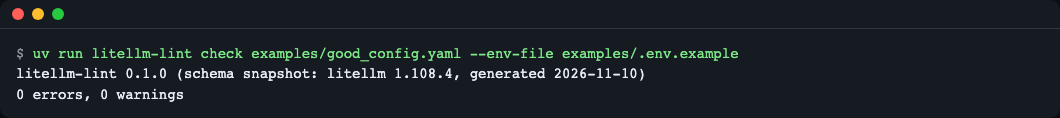
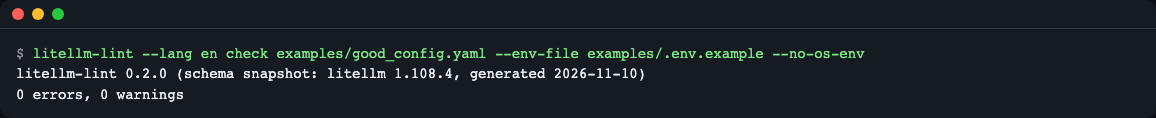
docs(readme): document output language and add Korean screenshots
Describe --lang precedence and add per-language screenshots plus the
0.2.0 changelog entry.

diff --git a/README.md b/README.md
@@ -22,7 +22,7 @@ uv tool install git+https://github.com/LeeGyeongPil/litellm-lint
 litellm-lint --version
 ```
 ```
-litellm-lint 0.1.2 (schema snapshot: litellm 1.108.4)
+litellm-lint 0.2.0 (schema snapshot: litellm 1.108.4)
 ```
 To try it once without installing: `uvx --from git+https://github.com/LeeGyeongPil/litellm-lint litellm-lint check config.yaml`. To use it from a downloaded repo, `git clone` and then `uv run litellm-lint ...`. A minimal Linux image needs `git` and `curl`.
 
@@ -33,7 +33,7 @@ git clone https://github.com/LeeGyeongPil/litellm-lint && cd litellm-lint
 uv run litellm-lint check examples/bad_config.yaml --env-file examples/.env.example
 ```
 ```
-litellm-lint 0.1.2 (schema snapshot: litellm 1.108.4, generated 2026-11-10)
+litellm-lint 0.2.0 (schema snapshot: litellm 1.108.4, generated 2026-11-10)
 examples/bad_config.yaml:7:16: error LL201 environment variable 'OPENAI_API_KEYY' not found in: examples/.env.example, process environment (did you mean 'OPENAI_API_KEY'?)
 examples/bad_config.yaml:17:7: warning LL001 unknown key 'api_bse' in litellm_params (did you mean 'api_base'?)
 examples/bad_config.yaml:20:3: error LL001 unknown key 'num_retires' in router_settings (did you mean 'num_retries'?)
@@ -48,7 +48,7 @@ Each line is `file:line:column: severity rule-code message`. The exit code is 1 
 uv run litellm-lint check examples/good_config.yaml --env-file examples/.env.example
 ```
 ```
-litellm-lint 0.1.2 (schema snapshot: litellm 1.108.4, generated 2026-11-10)
+litellm-lint 0.2.0 (schema snapshot: litellm 1.108.4, generated 2026-11-10)
 0 errors, 0 warnings
 ```
 ![Check result of a problem-free configuration](docs/images/02-good.png)
@@ -56,10 +56,27 @@ litellm-lint 0.1.2 (schema snapshot: litellm 1.108.4, generated 2026-11-10)
 
 ## Usage
 ```
-litellm-lint check [--env-file PATH] [--no-os-env] [--strict] [--ignore CODES] [--format {text,json}] config [config ...]
-litellm-lint schema [-o PATH]
+litellm-lint check [--env-file PATH] [--no-os-env] [--strict] [--ignore CODES] [--format {text,json}] [--lang {en,ko}] config [config ...]
+litellm-lint schema [-o PATH] [--lang {en,ko}]
 litellm-lint --version
 ```
+
+**Choosing the output language.** `--help`, error messages, findings and summary lines are shown in English or Korean. The first one that applies wins:
+
+1. `--lang en|ko` (accepted before or after the subcommand: `litellm-lint --lang ko check ...` or `litellm-lint check --lang ko ...`)
+2. the `LITELLM_LINT_LANG` environment variable (`en` or `ko`)
+3. the locale: `LC_ALL`, `LC_MESSAGES`, then `LANG`; a value starting with `ko` (for example `ko_KR.UTF-8`) means Korean
+4. otherwise English. An invalid `--lang` value stops the run with exit code 2; an invalid value in `LITELLM_LINT_LANG` is ignored and the next step is used.
+
+```bash
+uv run litellm-lint --lang ko check examples/good_config.yaml --env-file examples/.env.example
+LITELLM_LINT_LANG=ko uv run litellm-lint check examples/good_config.yaml --env-file examples/.env.example
+```
+```
+litellm-lint 0.2.0 (스키마 스냅숏: litellm 1.108.4, 생성일 2026-11-10)
+오류 0건, 경고 0건
+```
+Only the text output is translated. `--format json`, the `schema` export, rule codes and exit codes are identical in both languages, so scripts that read the output should use `--format json` or pass `--lang en`. The Python API (`Diagnostic.message`) stays English.
 
 | Command / option | What it does | Example |
 |---|---|---|
@@ -78,7 +95,7 @@ When you give several files, the header appears once, each file gets its finding
 uv run litellm-lint check examples/good_config.yaml examples/bad_config.yaml --env-file examples/.env.example
 ```
 ```
-litellm-lint 0.1.2 (schema snapshot: litellm 1.108.4, generated 2026-11-10)
+litellm-lint 0.2.0 (schema snapshot: litellm 1.108.4, generated 2026-11-10)
 examples/good_config.yaml: 0 errors, 0 warnings
 examples/bad_config.yaml:7:16: error LL201 environment variable 'OPENAI_API_KEYY' not found in: examples/.env.example, process environment (did you mean 'OPENAI_API_KEY'?)
 examples/bad_config.yaml:17:7: warning LL001 unknown key 'api_bse' in litellm_params (did you mean 'api_base'?)
@@ -96,7 +113,7 @@ total: 2 files, 5 errors, 2 warnings
 uv run litellm-lint check examples/bad_config.yaml --no-os-env --ignore LL001
 ```
 ```
-litellm-lint 0.1.2 (schema snapshot: litellm 1.108.4, generated 2026-11-10)
+litellm-lint 0.2.0 (schema snapshot: litellm 1.108.4, generated 2026-11-10)
 examples/bad_config.yaml:7:16: error LL201 environment variable 'OPENAI_API_KEYY' not found in: no sources
 examples/bad_config.yaml:12:16: error LL201 environment variable 'OPENAI_API_KEY' not found in: no sources
 examples/bad_config.yaml:22:18: error LL101 fallback target 'gpt-backup' in router_settings.fallbacks is not a model_name in model_list
@@ -113,7 +130,7 @@ uv run litellm-lint check examples/good_config.yaml --env-file examples/.env.exa
 ```json
 {
   "tool": "litellm-lint",
-  "version": "0.1.2",
+  "version": "0.2.0",
   "snapshot": {
     "litellm_version": "1.108.4",
     "generated_at": "2026-11-10"
@@ -134,7 +151,7 @@ uv run litellm-lint check examples/good_config.yaml --env-file examples/.env.exa
 ```yaml
 repos:
   - repo: https://github.com/LeeGyeongPil/litellm-lint
-    rev: v0.1.2
+    rev: v0.2.0
     hooks:
       - id: litellm-lint
         args: [--no-os-env, --env-file, deploy.env.example]
@@ -240,7 +257,7 @@ git clone https://github.com/LeeGyeongPil/litellm-lint && cd litellm-lint
 uv run pytest
 ```
 ```
-60 passed, 1 skipped in 4.41s
+98 passed, 1 skipped in 3.59s
 ```
 The 1 skipped test is the full snapshot-generation test, which needs litellm. Please leave bugs and suggestions as issues. Change history is in [CHANGELOG.md](CHANGELOG.md).
 

diff --git a/CHANGELOG.md b/CHANGELOG.md
@@ -5,6 +5,18 @@ The format follows [Keep a Changelog](https://keepachangelog.com/en/1.1.0/) and 
 
 ## [Unreleased]
 
+## [0.2.0] - 2026-11-12
+
+### Added
+- Output language selection, English or Korean, for the whole CLI: `--help`, argparse errors, the text report (diagnostic messages, severity words, summary lines with singular/plural), usage errors and progress lines. Choose it with `--lang en|ko` (accepted before or after the subcommand), the `LITELLM_LINT_LANG` environment variable, or the locale (`LC_ALL`, `LC_MESSAGES`, `LANG`; a value starting with `ko` means Korean). Anything else, or an invalid value, means English. Every message lives in one table, `litellm_lint/i18n.py`, and a test checks that both languages have the same keys and placeholders.
+
+### Changed
+- The default language now follows the environment: with a Korean locale the text output and `--help` are in Korean. Scripts that parse the text output should pass `--lang en` (or set `LITELLM_LINT_LANG=en`), or switch to `--format json`.
+- Text report: nothing else changes in English. `Diagnostic.message` stays English for library users.
+
+### Unchanged
+- `--format json` output (keys, structure, values including `message`), the `schema` command's JSON Schema, rule IDs and exit codes are identical in both languages.
+
 ## [0.1.2] - 2026-11-11
 
 ### Fixed
@@ -32,7 +44,8 @@ The format follows [Keep a Changelog](https://keepachangelog.com/en/1.1.0/) and 
 - (Fixed in 0.1.2) Summary lines were always plural ("1 errors", "1 warnings").
 - `Report.diagnostics` from the Python API is not sorted by line; sort it yourself.
 
-[Unreleased]: https://github.com/LeeGyeongPil/litellm-lint/compare/v0.1.2...HEAD
+[Unreleased]: https://github.com/LeeGyeongPil/litellm-lint/compare/v0.2.0...HEAD
+[0.2.0]: https://github.com/LeeGyeongPil/litellm-lint/releases/tag/v0.2.0
 [0.1.2]: https://github.com/LeeGyeongPil/litellm-lint/releases/tag/v0.1.2
 [0.1.1]: https://github.com/LeeGyeongPil/litellm-lint/releases/tag/v0.1.1
 [0.1.0]: https://github.com/LeeGyeongPil/litellm-lint/releases/tag/v0.1.0
